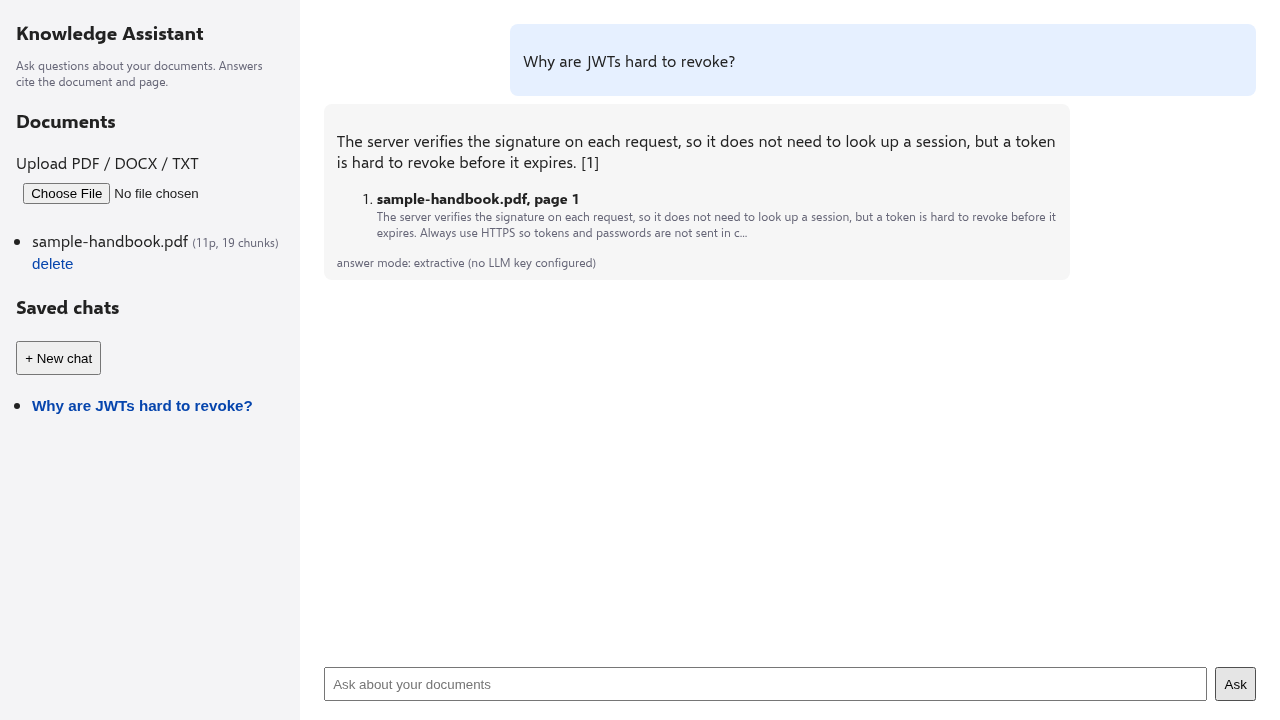
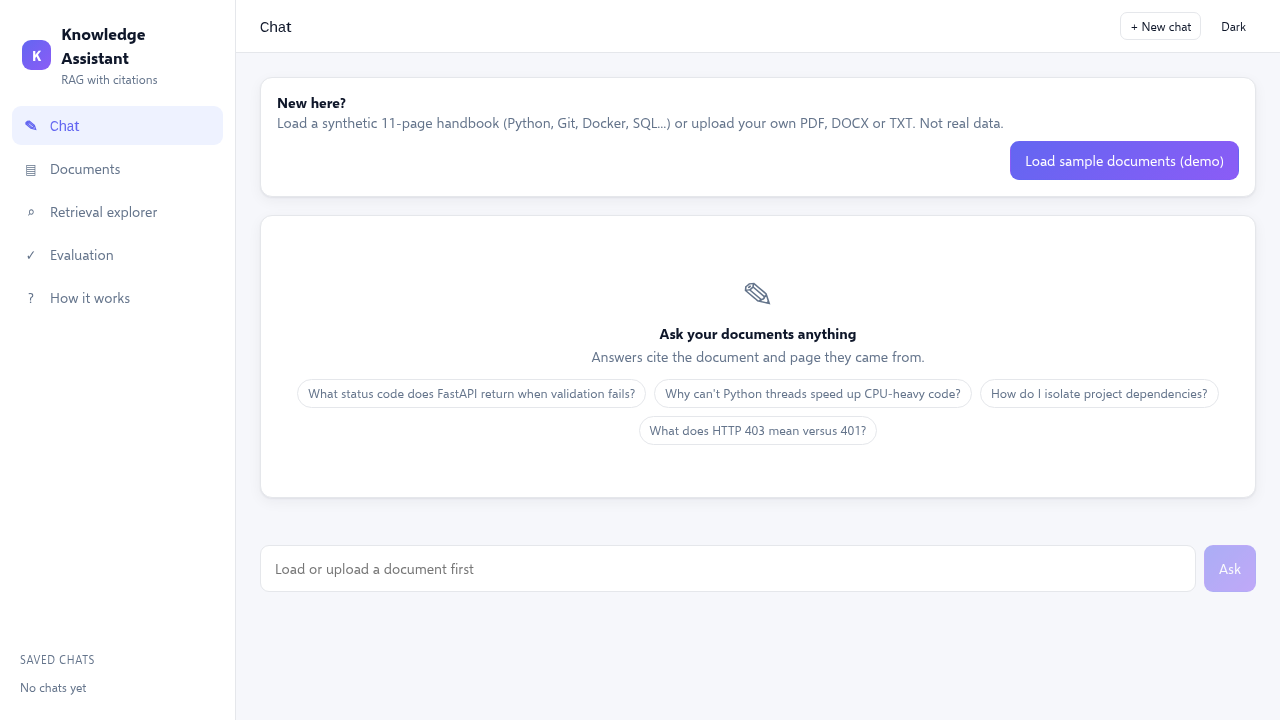
docs: update README and screenshots for the v3 UI

diff --git a/README.md b/README.md
@@ -5,7 +5,9 @@ Upload PDF / DOCX / TXT files, ask questions, get answers with citations (docume
 **Live demo (free tier):** https://rag-web-puce.vercel.app  (click **Load sample documents (demo)**, then ask)
 API + docs: https://rag-api-delta.vercel.app/docs
 
-![chat with page citation](docs/screenshot-chat.png)
+![chat, first view with sample questions](docs/screenshot-chat.png)
+
+Pages: Chat, Documents, Retrieval explorer, Evaluation (from real eval runs) and How it works, with dark mode.
 
 ## What it does
 1. **Ingest**: extract text per page (pypdf for PDF, python-docx for DOCX), split into ~500-character sentence chunks with 1-sentence overlap, embed each chunk, store in `rag_chunks` (pgvector `vector(384)`).
